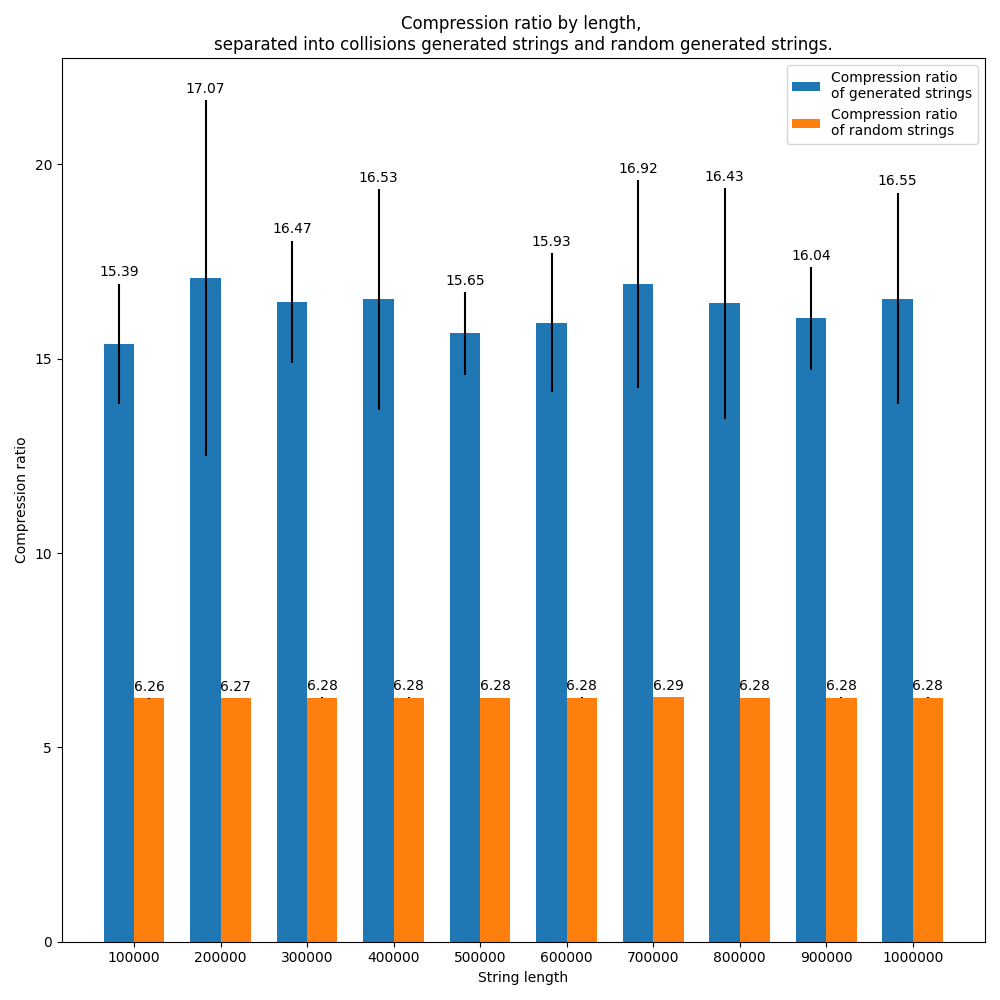
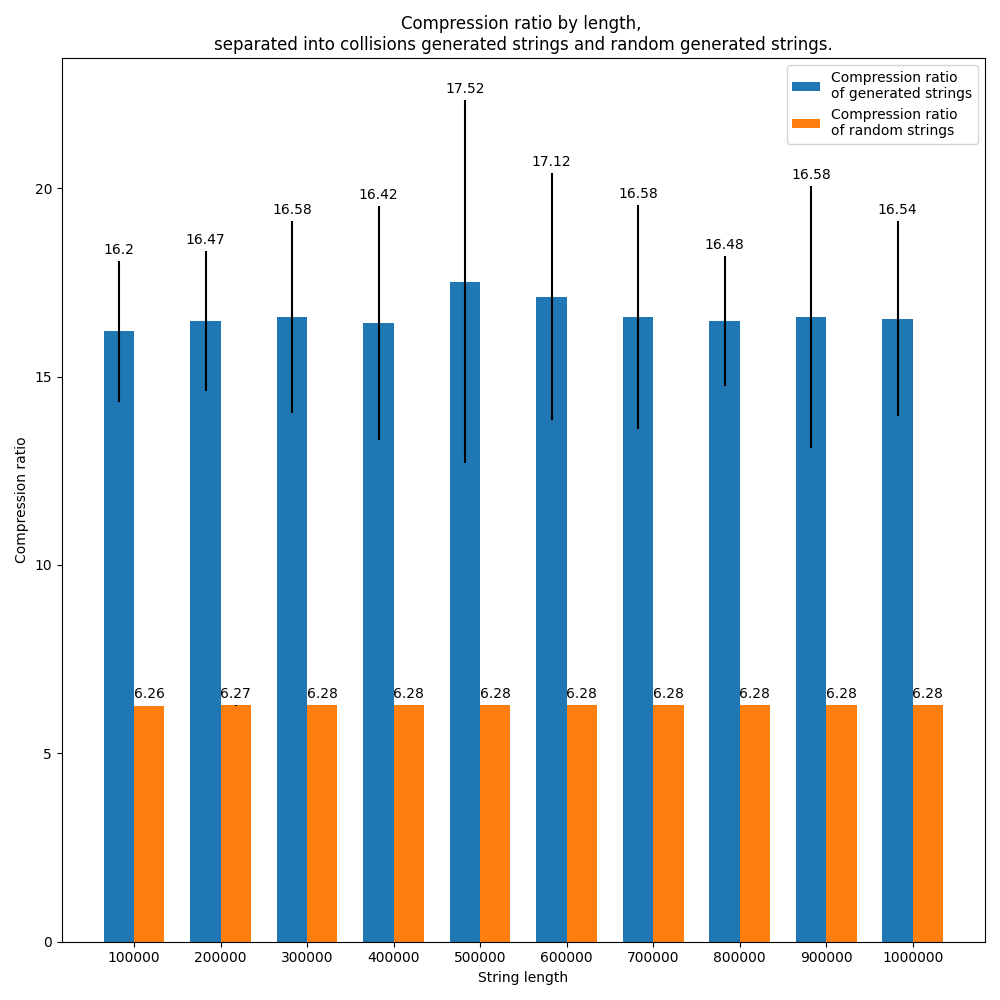
More sophisticated compression comparisons.

diff --git a/compression_bz2_comparison.py b/compression_bz2_comparison.py
@@ -32,41 +32,66 @@ def convert_to_string(filepath):
         crnt = next
     return string
 
-generated_strings = []
+lengths = [100000*(i+1) for i in range(10)]
+
+generated_sizes = []
+compressed_generated = []
 for i in range(10):
-    generated_strings.append(convert_to_string('Experiments/3particlestrings/random' + str(i)))
+    gen_sized = []
+    comp_gen_sized = []
+    for j in range(40):
+        string = convert_to_string('Experiments/3particlestrings/size' + str(100000*(i+1)) + '_' + str(j))
+        size = sys.getsizeof(string.encode())
+        comp_size = sys.getsizeof(bz2.compress(string.encode()))
 
-lengths = [len(string) for string in generated_strings]
+        gen_sized.append(size)
+        comp_gen_sized.append(comp_size)
 
-random_strings = []
+    generated_sizes.append(gen_sized)
+    compressed_generated.append(comp_gen_sized)
+
+
+random_sizes = []
+compressed_random = []
 for length in lengths:
-    random = np.random.randint(0, 2, size=length)
-    random = [str(r) for r in random]
+    rand_sized = []
+    comp_rand_sized = []
+    for j in range(40):
+        random = np.random.randint(0, 2, size=length)
+        random = ''.join([str(r) for r in random])
+        size = sys.getsizeof(random.encode())
+        comp_size = sys.getsizeof(bz2.compress(random.encode()))
 
-    random_strings.append(''.join(random))
+        rand_sized.append(size)
+        comp_rand_sized.append(comp_size)
+    
+    random_sizes.append(rand_sized)
+    compressed_random.append(comp_rand_sized)
 
-# find original sizes
-generated_sizes = [sys.getsizeof(string) for string in generated_strings]
-random_sizes = [sys.getsizeof(string) for string in random_strings]
+# Find means and stds
+gen_size_means = [np.mean(sized) for sized in generated_sizes]
+rand_size_means = [np.mean(sized) for sized in random_sizes]
 
-# find compresed sizes
-compressed_generated = [sys.getsizeof(bz2.compress(string.encode())) for string in generated_strings]
-compressed_random = [sys.getsizeof(bz2.compress(string.encode())) for string in random_strings]
+gen_comp_means = [np.mean(sized) for sized in compressed_generated]
+rand_comp_means = [np.mean(sized) for sized in compressed_random]
 
-# find the compression percentage
-percentage_generated = [round(gen/gen_comp, 2) for gen_comp, gen in zip(compressed_generated, generated_sizes)]
-percentage_random = [round(rand/rand_comp, 2) for rand_comp, rand in zip(compressed_random, random_sizes)]
+percentage_generated = [[round(gen/gen_comp, 2) for gen_comp in sized] for gen, sized in zip(gen_size_means, compressed_generated)]
+percentage_random = [[round(rand/rand_comp, 2) for rand_comp in sized] for rand, sized in zip(rand_size_means, compressed_random)]
 
-lengths = [len(string) for string in generated_strings]
+perc_gen_means = [round(np.mean(size), 2) for size in percentage_generated]
+perc_gen_stds = [np.std(size) for size in percentage_generated]  # TODO: update std with a different method, e.g. jackknife sampling
+
+perc_rand_means = [round(np.mean(size), 2) for size in percentage_random]
+perc_rand_stds = [np.std(size) for size in percentage_random]
 
 fig, ax = plt.subplots(figsize=(10, 10))
-labels = [str(length + 1) for length in lengths]
+labels = [str(length) for length in lengths]
 
 x = np.arange(len(labels))
 width= 0.35
 
-rects1 = ax.bar(x - width/2, percentage_generated, width, label='Compression ratio \nof generated strings')
-rects2 = ax.bar(x + width/2, percentage_random, width, label='Compression ratio \nof random strings')
+rects1 = ax.bar(x - width/2, perc_gen_means, width, yerr=perc_gen_stds, label='Compression ratio \nof generated strings')
+rects2 = ax.bar(x + width/2, perc_rand_means, width, yerr=perc_rand_stds, label='Compression ratio \nof random strings')
 
 ax.set_ylabel('Compression ratio')
 ax.set_title('Compression ratio by length, \nseparated into collisions generated strings and random generated strings.')

diff --git a/compresion_gzip_comparison.py b/compresion_gzip_comparison.py
@@ -34,33 +34,41 @@ def convert_to_string(filepath):
 
 # I chose to do experiments with 10 different sizes, arranged in 100000*(i+1) and within each size 20 experiments
 
-generated_strings = []
-for i in range(10):
-    single_size_strings = []
-    for j in range(20):
-        single_size_strings.append(convert_to_string('Experiments/3particlestrings/size' + str(100000*(i+1)) + '_' + str(j)))
-
-    generated_strings.append(single_size_strings)
-
 lengths = [100000*(i+1) for i in range(10)]
 
-random_strings = []
+generated_sizes = []
+compressed_generated = []
+for i in range(10):
+    gen_sized = []
+    comp_gen_sized = []
+    for j in range(40):
+        string = convert_to_string('Experiments/3particlestrings/size' + str(100000*(i+1)) + '_' + str(j))
+        size = sys.getsizeof(string.encode())
+        comp_size = sys.getsizeof(zlib.compress(string.encode()))
+
+        gen_sized.append(size)
+        comp_gen_sized.append(comp_size)
+
+    generated_sizes.append(gen_sized)
+    compressed_generated.append(comp_gen_sized)
+
+
+random_sizes = []
+compressed_random = []
 for length in lengths:
-    single_size_strings = []
-    for j in range(20):
+    rand_sized = []
+    comp_rand_sized = []
+    for j in range(40):
         random = np.random.randint(0, 2, size=length)
-        random = [str(r) for r in random]
+        random = ''.join([str(r) for r in random])
+        size = sys.getsizeof(random.encode())
+        comp_size = sys.getsizeof(zlib.compress(random.encode()))
 
-        single_size_strings.append(''.join(random))
-    random_strings.append(single_size_strings)
-
-# find original size
-generated_sizes = [[sys.getsizeof(string) for string in sized] for sized in generated_strings]
-random_sizes = [[sys.getsizeof(string) for string in sized] for sized in random_strings]
-
-# find compresed sizes
-compressed_generated = [[sys.getsizeof(zlib.compress(string.encode())) for string in sized] for sized in generated_strings]
-compressed_random = [[sys.getsizeof(zlib.compress(string.encode())) for string in sized] for sized in random_strings]
+        rand_sized.append(size)
+        comp_rand_sized.append(comp_size)
+    
+    random_sizes.append(rand_sized)
+    compressed_random.append(comp_rand_sized)
 
 # Find means and stds
 gen_size_means = [np.mean(sized) for sized in generated_sizes]

diff --git a/collisions_generation.py b/collisions_generation.py
@@ -11,7 +11,7 @@ import numpy as np
 
 nSizes = 10
 
-nSims = 20
+nSims = 40
 
 for i in range(nSizes):
     for j in range(nSims):
